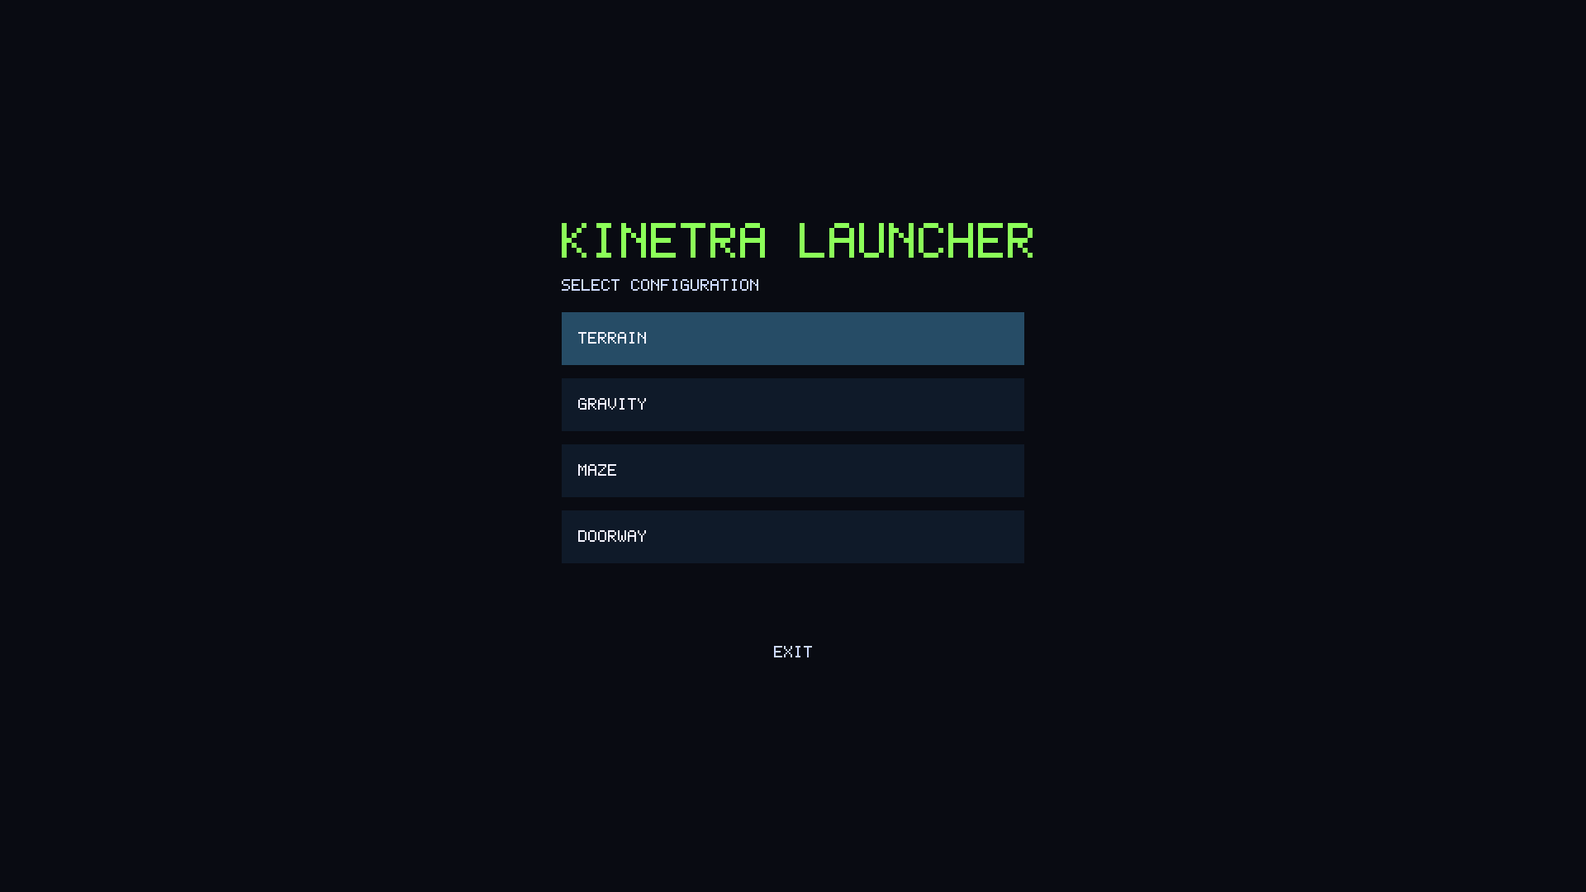
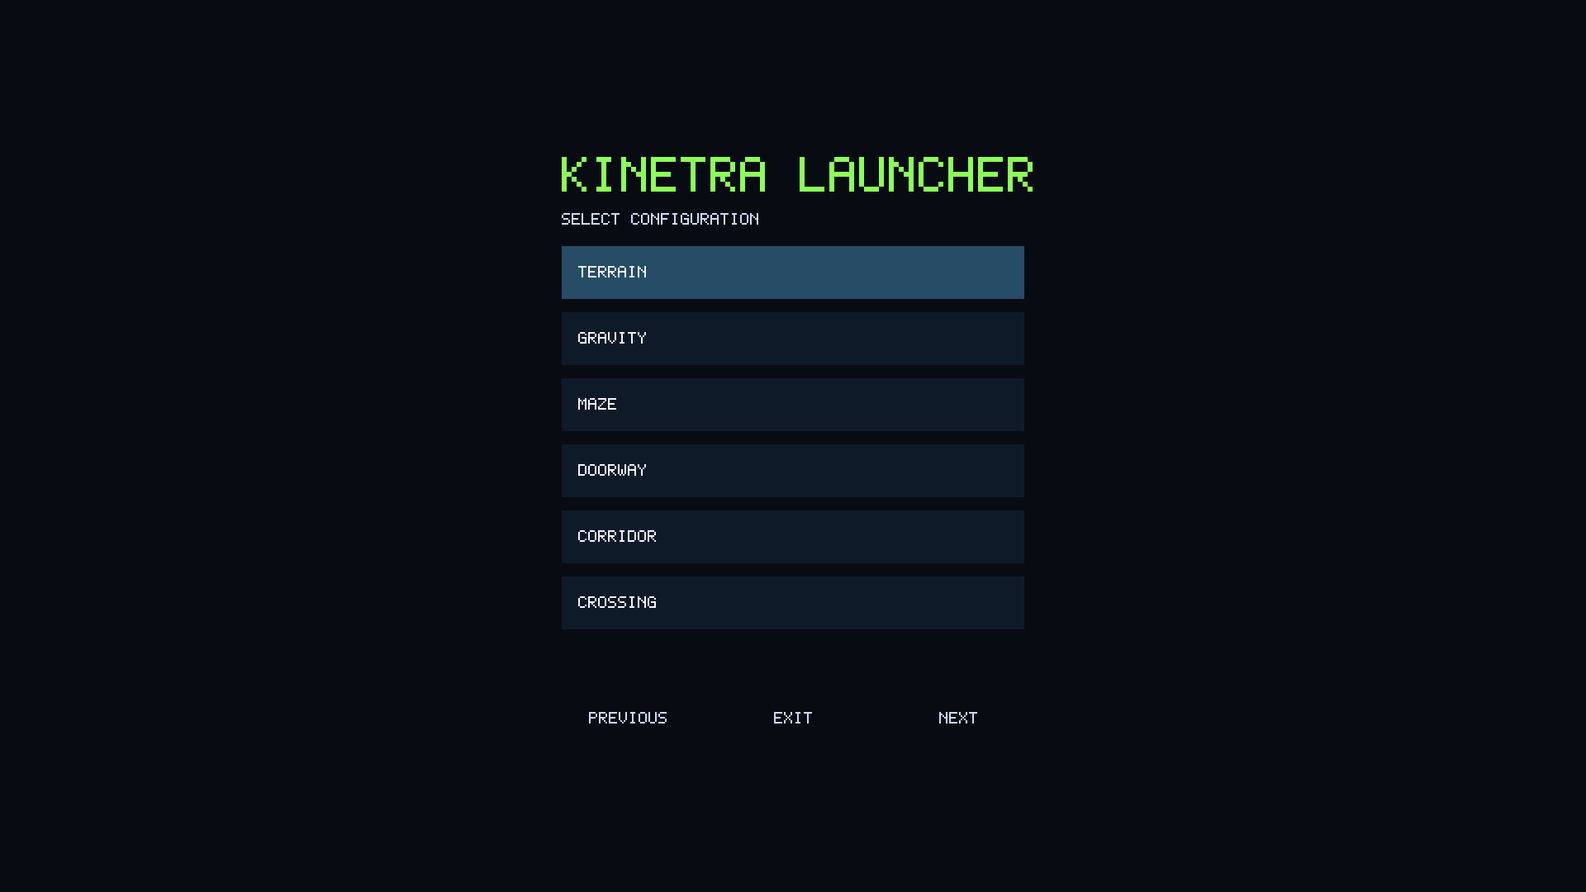
feat(capture): clips of Demo's showcases
Seven new scenario clips, and the Maze, Doorway, launcher and scenario
page captures refreshed. Shared-turn showcases are recorded until their
groups turn back, so each GIF loops as the scenario repeats.

Claude-Session: https://claude.ai/code/session_01X7aQDE8A1MX8VfnVvPspKW

diff --git a/tools/capture/src/scenes/scenes.cpp b/tools/capture/src/scenes/scenes.cpp
@@ -48,9 +48,14 @@ constexpr int shot_width = 1920, shot_height = 1080, clip_width = 960, clip_heig
 /// Length of a clip in frames: four seconds at 15 frames per second.
 constexpr int clip_frames = 60;
 /// Lengths of the Demo scenario clips from their start: Gravity until its shapes rest (8 s),
-/// Maze until the player has walked the route and stands at its goal (20 s), Doorway until
-/// both groups are through the opening (8 s).
-constexpr int demo_gravity_frames = 120, demo_maze_frames = 300, demo_doorway_frames = 120;
+/// Maze until the player has walked the route and stands at its goal (26 s). A scenario whose
+/// groups turn together lasts its first leg and the pause, until the groups turn back, so
+/// the GIF loops as the scenario repeats: Doorway 8 s, Corridor 13.6 s, Crossing 11 s, Circle
+/// 9.6 s, Bottleneck 13.6 s. Chaos, Fleet and Swarm run 12 s: Fleet's formations meet once
+/// and Swarm's lure crosses its pillar.
+constexpr int demo_gravity_frames = 120, demo_maze_frames = 390, demo_doorway_frames = 120,
+              demo_corridor_frames = 204, demo_crossing_frames = 165, demo_circle_frames = 144,
+              demo_bottleneck_frames = 204, demo_free_frames = 180;
 /// Length of the Dotio debug clip and the i4sim clips: twelve seconds. Long enough for a
 /// Dotio enemy to run for shelter, reload and come back, and for an i4sim mover to cross
 /// its floor at the session's own speed.
@@ -156,9 +161,9 @@ void demo_debug(Stage &stage) {
     stage.shot();
 }
 
-/// Where the Maze clip clicks, in world units: the open floor beyond the last wall, so the
-/// route winds through every gap.
-constexpr Vec2 demo_maze_goal{17, 8};
+/// Where the Maze clip clicks, in world units: a cell across the labyrinth from the player,
+/// so the route winds through it.
+constexpr Vec2 demo_maze_goal{16, 8};
 
 /// Records `frames` of Demo's `scenario` from its start, in Debug Mode as it starts. The
 /// Maze clip clicks demo_maze_goal in its first frame, so the player walks the route, and
@@ -429,6 +434,22 @@ const std::vector<Scene> &scenes() {
              [](Stage &stage) { demo_scenario_clip(stage, demo::Scenario::maze, demo_maze_frames); }),
         clip("demo-doorway-clip",
              [](Stage &stage) { demo_scenario_clip(stage, demo::Scenario::doorway, demo_doorway_frames); }),
+        clip("demo-corridor-clip",
+             [](Stage &stage) { demo_scenario_clip(stage, demo::Scenario::corridor, demo_corridor_frames); }),
+        clip("demo-crossing-clip",
+             [](Stage &stage) { demo_scenario_clip(stage, demo::Scenario::crossing, demo_crossing_frames); }),
+        clip("demo-circle-clip",
+             [](Stage &stage) { demo_scenario_clip(stage, demo::Scenario::circle, demo_circle_frames); }),
+        clip("demo-bottleneck-clip",
+             [](Stage &stage) {
+                 demo_scenario_clip(stage, demo::Scenario::bottleneck, demo_bottleneck_frames);
+             }),
+        clip("demo-chaos-clip",
+             [](Stage &stage) { demo_scenario_clip(stage, demo::Scenario::chaos, demo_free_frames); }),
+        clip("demo-fleet-clip",
+             [](Stage &stage) { demo_scenario_clip(stage, demo::Scenario::fleet, demo_free_frames); }),
+        clip("demo-swarm-clip",
+             [](Stage &stage) { demo_scenario_clip(stage, demo::Scenario::swarm, demo_free_frames); }),
         shot("dotio", dotio),
         shot("dotio-debug", dotio_debug),
         shot("dotio-settings", dotio_settings),

diff --git a/tools/capture/tests/capture_tests.cpp b/tools/capture/tests/capture_tests.cpp
@@ -201,6 +201,13 @@ TEST_CASE("the scenes are the expected list, each once") {
                                          "demo-gravity-clip",
                                          "demo-maze-clip",
                                          "demo-doorway-clip",
+                                         "demo-corridor-clip",
+                                         "demo-crossing-clip",
+                                         "demo-circle-clip",
+                                         "demo-bottleneck-clip",
+                                         "demo-chaos-clip",
+                                         "demo-fleet-clip",
+                                         "demo-swarm-clip",
                                          "dotio",
                                          "dotio-debug",
                                          "dotio-settings",

diff --git a/tools/capture/README.md b/tools/capture/README.md
@@ -40,7 +40,7 @@ It does not record from a running application, and it changes nothing an applica
 | Gallery | The README a scene belongs to: Lab's (`docs/media`) or Kinetra's (`external/Kinetra/docs/media`). The tool writes Kinetra's scenes into the `kinetra/` subdirectory of its output |
 | Tour clip | A clip that a tour plays through the launcher, with the pointer, of which a `ClipRecorder` keeps every fourth frame from the moment the script starts it: Kinetra's shared-UI clips, named `ui-*`, which go into Demo |
 | Step | One `advance` of the session by 1/60 s, as one frame of a 60 Hz display, so the statistics show real rates |
-| Clip frame | Four steps; clips play at 15 frames per second. Demo's Terrain clips and Dotio's gameplay clip last four seconds (60 frames), Demo's Gravity and Doorway clips eight (120) and its Maze clip twenty (300), the Dotio debug clip and the i4sim clips twelve (180), a showcase clip one cycle |
+| Clip frame | Four steps; clips play at 15 frames per second. Demo's Terrain clips and Dotio's gameplay clip last four seconds (60 frames), Demo's Gravity and Doorway clips eight (120), its Maze clip twenty-six (390), its Corridor and Bottleneck clips 13.6 (204), Crossing 11 (165) and Circle 9.6 (144), the Dotio debug clip, the i4sim clips and Demo's Chaos, Fleet and Swarm clips twelve (180), an i4sim showcase clip one cycle |
 | Scripted player | Dotio's player in the captures. It reads the world of the running session between frames and answers with a pointer position and the fire button, because a timeline written in advance would have to know where every enemy goes |
 | Menu click | A debug-menu row a script clicks, by number, with the label the row must have at that moment (`MenuClick`). `apply_menu_click` runs it on an application's rows without a window, so a test and the headless measurement can replay it |
 | Busiest stretch | The twelve seconds of the captured i4sim floor in which most movers drive; the i4sim clips record them |
@@ -116,7 +116,7 @@ sequenceDiagram
 
 *Takeaway:* every pixel comes from the applications' own drawing; the tool only chooses the input and the moment.
 
-- **Scripts.** Demo and i4sim start in Debug Mode, so their normal scenes turn DEBUG MODE off in the settings panel. Debug scenes open the menu with Shift+Ctrl, which in Dotio also switches Debug Mode on. Demo's debug screenshot opens the MOTION section, to show the values that can be tuned. Demo's Gravity, Maze and Doorway clips start their scenario and record from its first step; the Maze clip clicks beyond the last wall in its first frame (`demo_maze_goal`) and lasts until the player has arrived. Dotio's debug scenes click `dotio_debug_clicks`: INVULNERABLE, then the LAYERS section and every layer in it; PATHS opens its four parts right below it, so the rows after it are clicked in their new places.
+- **Scripts.** Demo and i4sim start in Debug Mode, so their normal scenes turn DEBUG MODE off in the settings panel. Debug scenes open the menu with Shift+Ctrl, which in Dotio also switches Debug Mode on. Demo's debug screenshot opens the MOTION section, to show the values that can be tuned. Demo's scenario clips, Gravity to Swarm, start their scenario and record from its first step; the Maze clip clicks a cell across the labyrinth in its first frame (`demo_maze_goal`) and lasts until the player has arrived. A Demo showcase whose groups turn together is recorded until the groups turn back, so its GIF loops as the scenario repeats; these lengths are measured constants in `scenes.cpp`, so a change to a layout or to the motion checks them again. Dotio's debug scenes click `dotio_debug_clicks`: INVULNERABLE, then the LAYERS section and every layer in it; PATHS opens its four parts right below it, so the rows after it are clicked in their new places.
 - **Dotio's player.** `Stage::start_dotio` creates the session as the launcher's entry does and keeps its `Application` (`dotio::Session::application`). Before every clip frame `dotio_aim` picks the nearest live enemy on screen that a bolt can reach in a straight line: no wall between it and the player, the sight line the enemies' own AI uses, and no crate, because crates stop bolts. It leads that enemy by its velocity for the bolt's flight time (`lead_offset`); the script puts the pointer there and holds the button for the first half of every second. Without an enemy in sight the player holds fire. The screenshots and the gameplay clip run a square through the corridors with it; a screenshot plays on after the warm-up, 20 s at most, until an enemy is in sight and a bolt is on its way.
 - **The Dotio debug clip** closes the menu again, zooms out nine wheel notches and lets the player hold its ground with a sidestep every two seconds. It first waits without firing (`Stage::play_until`, 60 s at most) until `dotio_recovery_in_view` finds an enemy in Recover a fifth of the window's height inside the view: an enemy recovers only after nine shots at the player, and one that is shot at from the start dies before. Then it records twelve seconds in which the player shoots back.
 - **i4sim's scenes** load `4320x2400.json` and click `i4sim_motion_clicks` in the debug menu (MOTION, PROFILE, RECIPROCAL, PLANNER, A*) before Space; the normal view turns Debug Mode off afterwards, because the menu needs it. The clips record twelve seconds at the session's 200 ticks per second with the menu closed; the debug screenshot opens LAYERS instead.
@@ -125,7 +125,7 @@ sequenceDiagram
 - **Clicks and keys.** A settings row is found through a mirror `SettingsOverlay` with the same Lab rows (`row_y`, `half_extent`), and a debug-menu row through `DebugMenu::row_top` and `label_left`, the same public layout the graphics tests use. The panel opens on a tap of Ctrl and the debug menu on Shift+Ctrl; the stage sends both as a press that is not held, which the overlay treats as complete. Presses, clicks and the wheel apply to the first step of a clip frame; held keys and buttons to all four.
 - **Frame pacing.** The tool switches the runtime's frame limit off: its frames go to files, so nothing has to wait for a display. It also fixes the frame time the runtime records at one 60 Hz step (`Runtime::fix_frame_times`), so a frame-time graph reads 16.7 ms in every capture instead of the time software rendering took.
 - **Frames.** The stage switches on the Runtime's read-back, so `Runtime::end()` copies each frame before it presents it, with rows from the top as PNG stores them, in the same way offscreen and in a window ([runtime contract](../../external/Kinetra/docs/engine/runtime.md#input-and-drawing)): the launcher screenshot comes out byte-identical with SDL's offscreen driver and in an X11 window under Xvfb, and a composited desktop or Windows, where the tool renders in a real window, is not yet checked. The stage drops alpha, which is always 255, and writes the PNG. The tour copies the frame into its canvas of the window's logical size, so it needs a drawable of that size, without display scaling, and stops otherwise.
-- **GIFs.** One palette per clip (`palettegen`), no dithering, because the applications draw flat colors, and only the changed rectangle per frame (`diff_mode=rectangle`). The six GIFs of the normal and debug views are about 5.0 MB together, the three Demo scenario GIFs about 0.8 MB, the five showcase GIFs about 2.5 MB, the five shared-UI GIFs about 2.6 MB.
+- **GIFs.** One palette per clip (`palettegen`), no dithering, because the applications draw flat colors, and only the changed rectangle per frame (`diff_mode=rectangle`). The six GIFs of the normal and debug views are about 5.0 MB together, the ten Demo scenario GIFs about 8.8 MB, the five showcase GIFs about 2.5 MB, the five shared-UI GIFs about 2.6 MB.
 - **Tour clips.** Each script in `ui_clips.cpp` builds a `Tour` on the stage's window, at clip size, with a `ClipRecorder` as its frame sink, so the GIF shows the tour's pointer, click rings and keycaps, without captions. It first goes through the launcher to its Demo scenario unrecorded, by clicks on DEMO and the scenario, and checks that the scenario runs; then it starts the recorder, which keeps every fourth frame of the tour's 60 per second, the 15 of a clip. Doorway, with six agents on a calm background, keeps the launcher, settings, debug-menu and inspector GIFs small; the layers clip runs in Terrain with agents that wander by planned routes, and the player stands still, so the camera does not move. The inspector clip finds its X button through the inspector's own layout (`kinetra_lab::inspector_area`, `InspectorView::bounds`). The launcher clip ends with SCENARIOS in Demo's debug menu and checks that the launcher shows Demo's page with DOORWAY selected.
 
 ### The tour video

diff --git a/docs/media/README.md b/docs/media/README.md
@@ -19,7 +19,9 @@ Real application captures behind the project's README, what each one shows, and 
 | [launcher-demo-scenarios.png](launcher-demo-scenarios.png) | Demo configuration page with Terrain highlighted ([Demo](../../labs/demo/README.md#scenarios)) |
 | [demo.png](demo.png), [demo-debug.png](demo-debug.png) | Demo with Debug Mode off, and on with its default layers and the debug menu open on the MOTION section: the steering values that can be tuned while the scene runs |
 | [demo-clip.gif](demo-clip.gif), [demo-debug-clip.gif](demo-debug-clip.gif) | Demo: the player walks to two clicked points among the agents, which wander by steering around their homes, in both views; the debug clip has the menu closed |
-| [demo-gravity-clip.gif](demo-gravity-clip.gif), [demo-maze-clip.gif](demo-maze-clip.gif), [demo-doorway-clip.gif](demo-doorway-clip.gif) | Demo's fixed layouts from their start, in Debug Mode with the menu closed: shapes falling onto the ramps until they rest (8 s), the player walking its planned route through the maze after a click beyond the last wall (20 s), and two groups crossing through one opening (8 s) |
+| [demo-gravity-clip.gif](demo-gravity-clip.gif), [demo-maze-clip.gif](demo-maze-clip.gif), [demo-doorway-clip.gif](demo-doorway-clip.gif) | Demo's fixed layouts from their start, in Debug Mode with the menu closed: shapes falling onto the ramps until they rest (8 s), the player walking its planned route through the labyrinth after a click across it while six agents shuttle (26 s), and two groups crossing through one opening and pausing until they turn back (8 s) |
+| [demo-corridor-clip.gif](demo-corridor-clip.gif), [demo-crossing-clip.gif](demo-crossing-clip.gif), [demo-circle-clip.gif](demo-circle-clip.gif), [demo-bottleneck-clip.gif](demo-bottleneck-clip.gif) | Demo's showcases whose groups turn together, from their start until they turn back, so each GIF loops as the scenario repeats: two groups through a corridor (13.6 s), two streams across an intersection (11 s), sixteen agents across a circle (9.6 s), and sixteen agents out of a room through one exit (13.6 s) |
+| [demo-chaos-clip.gif](demo-chaos-clip.gif), [demo-fleet-clip.gif](demo-fleet-clip.gif), [demo-swarm-clip.gif](demo-swarm-clip.gif) | Demo's showcases without a shared turn, twelve seconds from their start: forty agents to random points, two formations meeting head-on, and a swarm flowing around a pillar |
 | [dotio.png](dotio.png), [dotio-debug.png](dotio-debug.png) | Dotio gameplay, and Debug Mode with every layer on and the debug menu open on LAYERS: PATHS with its four parts in the colors of their AI states, zoomed out |
 | [dotio-settings.png](dotio-settings.png) | Dotio's settings panel (STATISTICS, DEBUG MODE, FRAME TIMES, FRAME LIMIT) with SIM CONTROLS expanded |
 | [dotio-clip.gif](dotio-clip.gif) | Dotio: the player runs a square through the corridors and shoots in bursts at the nearest enemy in sight |
@@ -32,11 +34,11 @@ Real application captures behind the project's README, what each one shows, and 
 ## Capture details
 
 - **Rendering.** SDL's offscreen driver with software Mesa, read back through the Runtime's frame read-back; no window decoration.
-- **Sizes.** Screenshots 1920 × 1080. Clips are rendered at 960 × 540, so the bitmap font stays sharp, and play at 15 frames per second: four seconds for Demo's Terrain and the Dotio gameplay clip, eight for Gravity and Doorway, twenty for Maze, until the player has arrived, twelve for the Dotio debug clip and the i4sim clips. A showcase clip lasts one cycle of its scene instead, which the tool measures before recording, so the GIF loops as the application repeats the scene. There is no size budget per GIF (the user's choice of 2026-11-24).
+- **Sizes.** Screenshots 1920 × 1080. Clips are rendered at 960 × 540, so the bitmap font stays sharp, and play at 15 frames per second: four seconds for Demo's Terrain and the Dotio gameplay clip, eight for Gravity and Doorway, twenty-six for Maze, until the player has arrived, until the groups turn back for Demo's other shared-turn showcases, twelve for Chaos, Fleet and Swarm, twelve for the Dotio debug clip and the i4sim clips. A showcase clip lasts one cycle of its scene instead, which the tool measures before recording, so the GIF loops as the application repeats the scene. There is no size budget per GIF (the user's choice of 2026-11-24).
 - **Sessions.** Created as the bundled launcher creates them, with seed 42, 48 Demo agents and Dotio on Medium. The debug scenes open the debug menu with Shift+Ctrl, which in Dotio also switches Debug Mode on. Every step advances 1/60 s, so the statistics show 60 frames per second. Demo's Terrain runs 2 s before a capture and Dotio 8 s, for its enemies to arrive. Demo's other scenarios and the showcase scenes start at once, as after a choice on the scenario page or Space on the SHOWCASE page.
 - **Dotio's player.** Scripted against the world of the running session, so it reacts to the enemies it meets: it aims at the nearest enemy on screen that a bolt can reach, with no wall or crate in between, ahead of one that moves, and holds fire without one. A screenshot is taken while it shoots at an enemy. The debug clip zooms out nine wheel notches and waits, without firing, until an enemy enters Recover (60 s at most).
 - **i4sim's settings.** The scripts choose PROFILE RECIPROCAL and PLANNER A* in the debug menu's MOTION section before Space; the traffic policies stay off. The clips show the twelve seconds of the floor's first 150 s in which most movers drive, which the tool finds in a headless run before it records; the screenshots are taken halfway through them. Why this floor and these settings is in the [design document](../design/2026-11-19-credible-media-clips.md#decisions).
-- **GIFs.** One palette per clip without dithering, and only the changed rectangle per frame; about 5.0 MB for the six clips of the normal and debug views, 0.8 MB for the three Demo scenario clips, and 2.5 MB for the five showcase clips.
+- **GIFs.** One palette per clip without dithering, and only the changed rectangle per frame; about 5.0 MB for the six clips of the normal and debug views, 8.8 MB for the ten Demo scenario clips (Chaos alone 2.5 MB), and 2.5 MB for the five showcase clips.
 - **Reproducibility.** A refresh gives the same files, Dotio's included: its randomness comes from the seed since roadmap phase 6 ([Dotio restructuring](../design/2026-11-21-dotio-restructuring.md)).
 - **What each script does** is in the [capture tool](../../tools/capture/README.md#how-it-works).
 
@@ -48,7 +50,7 @@ A pull request that changes what a capture shows refreshes it in the same pull r
 
 | A change to | Makes stale |
 | --- | --- |
-| Demo (`labs/demo/`): its scene, drawing, rows or tuning | `demo`, `demo-debug`, `demo-clip`, `demo-debug-clip`, `demo-gravity-clip`, `demo-maze-clip`, `demo-doorway-clip`; its scenario list also `launcher-demo-scenarios` |
+| Demo (`labs/demo/`): its scene, drawing, rows or tuning | `demo`, `demo-debug`, `demo-clip`, `demo-debug-clip`, and the `demo-<scenario>-clip` of each scenario it changes (Gravity to Swarm); its scenario list also `launcher-demo-scenarios` |
 | Dotio (`labs/dotio/`) | `dotio`, `dotio-debug`, `dotio-settings`, `dotio-clip`, `dotio-debug-clip`; its difficulties also `launcher-difficulty` |
 | i4sim (`labs/i4sim/`, its blueprints) | `i4sim`, `i4sim-debug`, `i4sim-clip`, `i4sim-debug-clip`; a showcase blueprint its `i4sim-showcase-*-clip` |
 | The launcher's registrations (`launcher/`) | `launcher`, `launcher-demo-scenarios`, `launcher-difficulty` |

diff --git a/README.md b/README.md
@@ -34,19 +34,26 @@ Demo and i4sim start with Debug Mode and all visual layers on; Dotio keeps debug
 
 ### Demo
 
-The reference for Kinetra's mechanisms: physics and contacts, A* navigation, steering and reciprocal avoidance, in four scenarios that the launcher offers when DEMO is chosen. In Terrain a player walks a streamed, seeded world among a crowd of agents that wander around their homes, by steering or by planned routes, and a click sends the player along a planned route. The debug menu tunes the agents' motion and wander while they run. [Demo guide](labs/demo/README.md)
+The reference for Kinetra's mechanisms: physics and contacts, A* navigation, steering and reciprocal avoidance, in eleven scenarios that the launcher offers when DEMO is chosen. In Terrain a player walks a streamed, seeded world among a crowd of agents that wander around their homes, by steering or by planned routes, and a click sends the player along a planned route. The debug menu tunes the agents' motion and wander while they run. [Demo guide](labs/demo/README.md)
 
 | Normal view | Debug view |
 | --- | --- |
 | ![Demo: the player walks among physics agents](docs/media/demo-clip.gif) | ![Demo with steering probes, vectors and collision shapes: agents wander by steering around their homes](docs/media/demo-debug-clip.gif) |
 
-The other three scenarios each show one mechanism, from its start, in Debug Mode:
+The other scenarios each show one mechanism, from its start, in Debug Mode. From Maze on they are showcases: their agents repeat their motion on their own, as i4sim's showcase scenes do, and a click still commands a selected agent.
 
 | Scenario | Clip |
 | --- | --- |
 | **Gravity**: dynamic shapes fall onto two ramps; some slide off, and all come to rest | ![Demo Gravity: circles and boxes fall onto two ramps and come to rest](docs/media/demo-gravity-clip.gif) |
-| **Maze**: a click beyond the last wall plans a route through the alternating gaps, and the player walks it | ![Demo Maze: the player follows its planned route through three walls](docs/media/demo-maze-clip.gif) |
-| **Doorway**: two groups with opposing goals meet in one opening and pass each other by reciprocal avoidance | ![Demo Doorway: two groups of three agents cross through one opening](docs/media/demo-doorway-clip.gif) |
+| **Maze**: six agents shuttle between far cells of a labyrinth and meet in its corridors; a click across the maze sends the player along a planned route | ![Demo Maze: agents and the player follow planned routes through a labyrinth](docs/media/demo-maze-clip.gif) |
+| **Doorway**: two groups shuttle through one opening, pass each other by reciprocal avoidance and turn together after two seconds | ![Demo Doorway: two groups of three agents cross through one opening](docs/media/demo-doorway-clip.gif) |
+| **Corridor**: two groups of six swap ends through a long corridor and form lanes | ![Demo Corridor: two groups pass each other in a corridor](docs/media/demo-corridor-clip.gif) |
+| **Crossing**: two streams cross at right angles between four blocks | ![Demo Crossing: a horizontal and a vertical stream cross at an intersection](docs/media/demo-crossing-clip.gif) |
+| **Circle**: sixteen agents on a circle each head for the opposite point, meet in the middle and turn around one another | ![Demo Circle: sixteen agents swap places across a circle](docs/media/demo-circle-clip.gif) |
+| **Bottleneck**: sixteen agents leave a room through one narrow exit | ![Demo Bottleneck: a group squeezes through one exit](docs/media/demo-bottleneck-clip.gif) |
+| **Chaos**: forty agents travel to random points between five pillars | ![Demo Chaos: forty agents cross the field in every direction](docs/media/demo-chaos-clip.gif) |
+| **Fleet**: two arrow formations travel one oval in opposite directions, meet head-on and pass the pillars on their way | ![Demo Fleet: two formations meet head-on](docs/media/demo-fleet-clip.gif) |
+| **Swarm**: thirty agents follow one lure along a figure eight and flow around the pillar where it crosses | ![Demo Swarm: a swarm flows around a pillar](docs/media/demo-swarm-clip.gif) |
 
 ### Dotio
 
